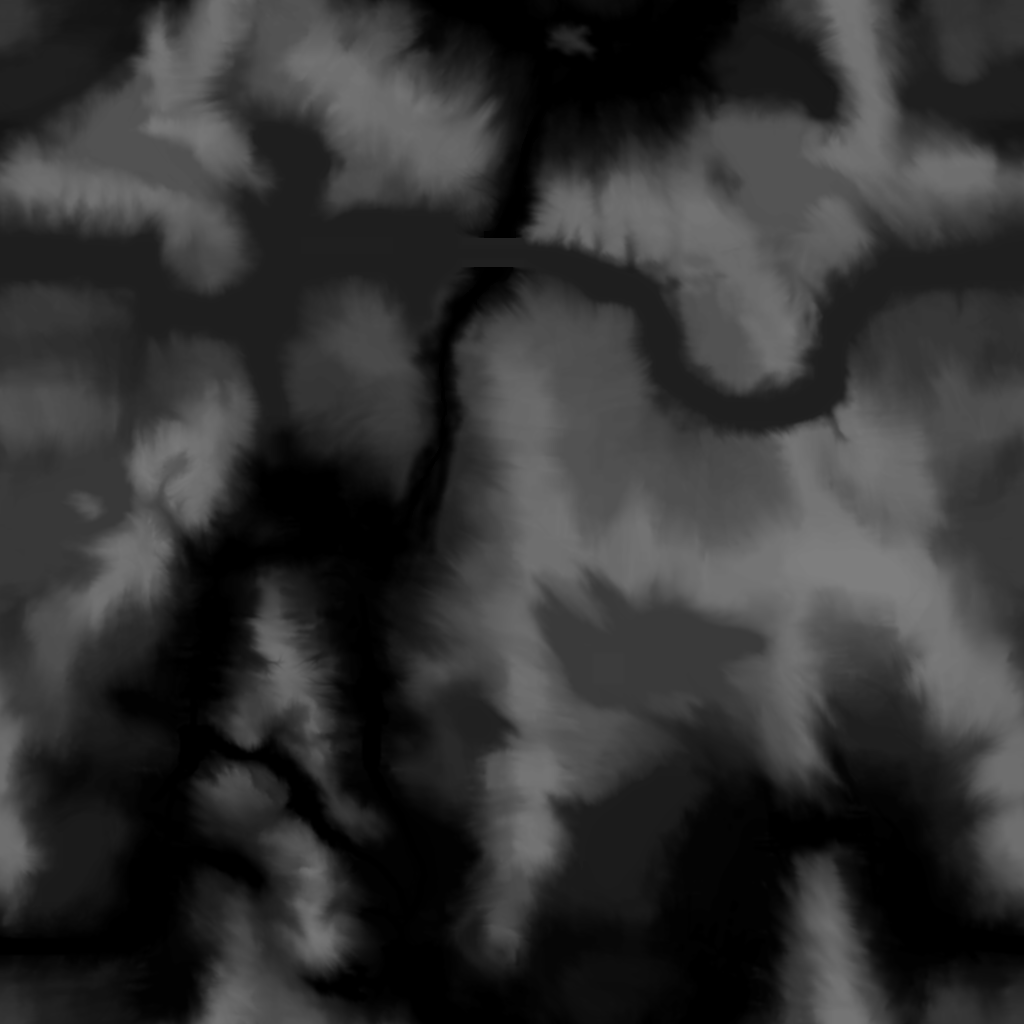
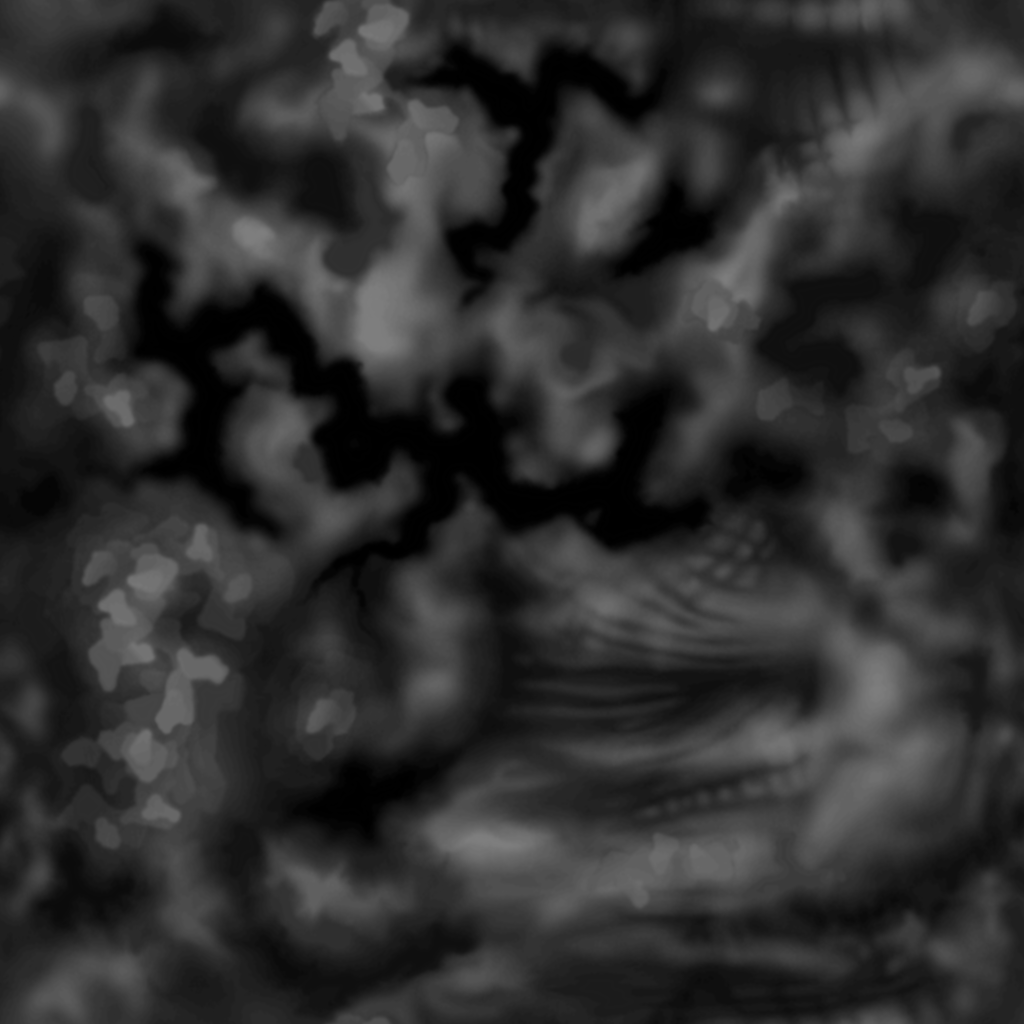
Collect Workable maps and show them on screen

diff --git a/main.go b/main.go
@@ -2,34 +2,96 @@ package main
 
 import (
 	"fmt"
-	"image/color"
 	"log"
+	"regexp"
+	"strconv"
 
 	"github.com/hajimehoshi/ebiten/v2"
 	"github.com/hajimehoshi/ebiten/v2/ebitenutil"
+	"github.com/hajimehoshi/ebiten/v2/inpututil"
 )
 
 const (
 	screenWidth  = 1024
 	screenHeight = 1024
+
+	mapCount  = 14
+	assetsDir = `.\maps\`
 )
 
+var (
+	colorMaps []*ebiten.Image
+	depthMaps []*ebiten.Image
+)
+
+func init() {
+	filenames, err := getFileNames(assetsDir)
+	if err != nil {
+		panic(err)
+	}
+	colorMaps = make([]*ebiten.Image, mapCount)
+	depthMaps = make([]*ebiten.Image, mapCount)
+	re := regexp.MustCompile("[0-9]+")
+	for _, file := range filenames {
+		i, _ := strconv.Atoi(re.FindString(file))
+		if i <= mapCount {
+			img, err := loadImage(assetsDir + file)
+			if err != nil {
+				panic(err)
+			}
+			if file[0] == 'C' {
+				colorMaps[i-1] = img
+			} else {
+				depthMaps[i-1] = img
+			}
+		}
+	}
+}
+
 type Game struct {
+	mapID   int
+	mapType bool
+	img     *ebiten.Image
+}
+
+func (g *Game) loadImage() {
+	if g.mapType {
+		g.img = colorMaps[g.mapID]
+	} else {
+		g.img = depthMaps[g.mapID]
+	}
+	// log.Println("DEBUG: g ", g.mapID, g.mapType)
 }
 
 func NewGame() *Game {
-	return &Game{}
+	g := &Game{
+		mapID:   0,
+		mapType: true,
+	}
+	g.loadImage()
+	return g
 }
 
 func (g *Game) Update() error {
+	if inpututil.IsKeyJustPressed(ebiten.KeyQ) {
+		g.mapID = (mapCount + g.mapID - 1) % mapCount
+	}
+	if inpututil.IsKeyJustPressed(ebiten.KeyE) {
+		g.mapID = (g.mapID + 1) % mapCount
+	}
+	if inpututil.IsKeyJustPressed(ebiten.KeyT) {
+		g.mapType = !g.mapType
+	}
+	g.loadImage()
 	return nil
 }
 
 func (g *Game) Draw(screen *ebiten.Image) {
 
-	screen.Fill(color.RGBA{245, 245, 245, 245})
+	op := &ebiten.DrawImageOptions{}
+	screen.DrawImage(g.img, op)
 
-	msg := fmt.Sprintf("FPS: %0.0f, TPS: %0.0f",
+	msg := fmt.Sprintf("FPS: %0.0f, TPS: %0.0f\nChange Map: QE\nChange Type: T",
 		ebiten.ActualFPS(), ebiten.ActualTPS())
 	ebitenutil.DebugPrint(screen, msg)
 }

diff --git a/util.go b/util.go
@@ -1,0 +1,45 @@
+package main
+
+import (
+	"image"
+	_ "image/png"
+	"log"
+	"os"
+
+	"github.com/hajimehoshi/ebiten/v2"
+)
+
+func getFileNames(dir string) ([]string, error) {
+	f, err := os.Open(dir)
+	if err != nil {
+		log.Fatal("ERROR getFileNames os.Open: ", err)
+		return []string{}, err
+	}
+	files, err := f.Readdir(0)
+	if err != nil {
+		log.Fatal("ERROR loadImage f.Readdir: ", err)
+		return []string{}, err
+	}
+	filenames := make([]string, len(files))
+	for i, v := range files {
+		if !v.IsDir() {
+			filenames[i] = v.Name()
+		}
+	}
+	return filenames, nil
+}
+
+func loadImage(filePath string) (*ebiten.Image, error) {
+	f, err := os.Open(filePath)
+	if err != nil {
+		log.Fatal("ERROR loadImage os.Open: ", err)
+		return nil, err
+	}
+	defer f.Close()
+	img, _, err := image.Decode(f)
+	if err != nil {
+		log.Fatal("ERROR loadImage image.Decode: ", err, filePath)
+		return nil, err
+	}
+	return ebiten.NewImageFromImage(img), nil
+}
